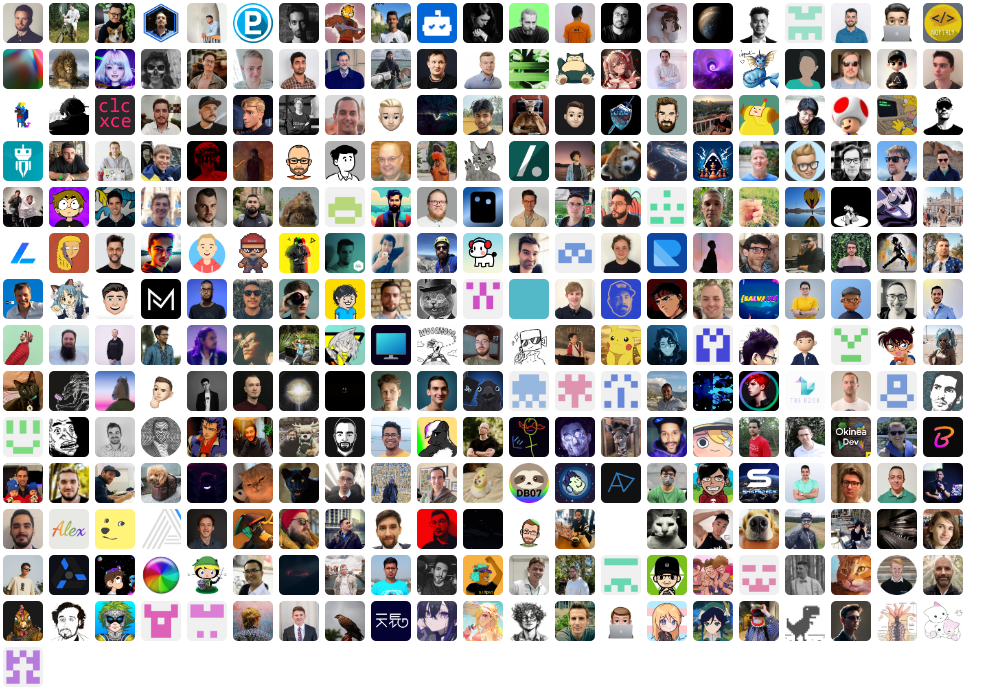
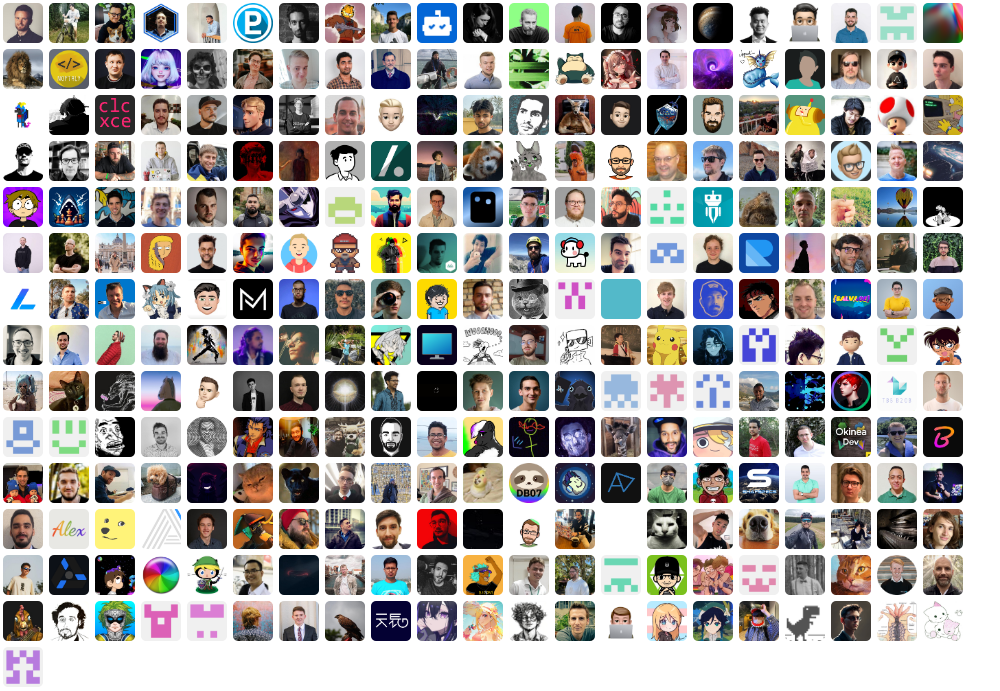
release: 🔖 v0.31.0

diff --git a/CHANGELOG.md b/CHANGELOG.md
@@ -3,10 +3,18 @@
  All notable changes to this project will be documented in this file. Dates are displayed in UTC.
 
  
+#### [v0.31.0](https://github.com/PKief/vscode-material-icon-theme/compare/v0.30.0...v0.31.0) 
+
+> March 4, 2024 
+
+- feat: ✨ template folders and icons [`8315d5cd`](https://github.com/PKief/vscode-material-icon-theme/commit/8315d5cd)
+- feat: add commitlint .mjs extension support [`#2241`](https://github.com/PKief/vscode-material-icon-theme/pull/2241)
+ 
 #### [v0.30.0](https://github.com/PKief/vscode-material-icon-theme/compare/v0.29.0...v0.30.0) 
 
 > March 4, 2024 
 
+- release: 🔖 v0.30.0 [`09f06a4d`](https://github.com/PKief/vscode-material-icon-theme/commit/09f06a4d)
 - feat: ✨ repo and conversion folders [`ad7b0d3f`](https://github.com/PKief/vscode-material-icon-theme/commit/ad7b0d3f)
 - Add Controller, Television, and Desktop folder icons [`#2218`](https://github.com/PKief/vscode-material-icon-theme/pull/2218)
 - feat: add postcss .mjs extension support [`#2239`](https://github.com/PKief/vscode-material-icon-theme/pull/2239)
